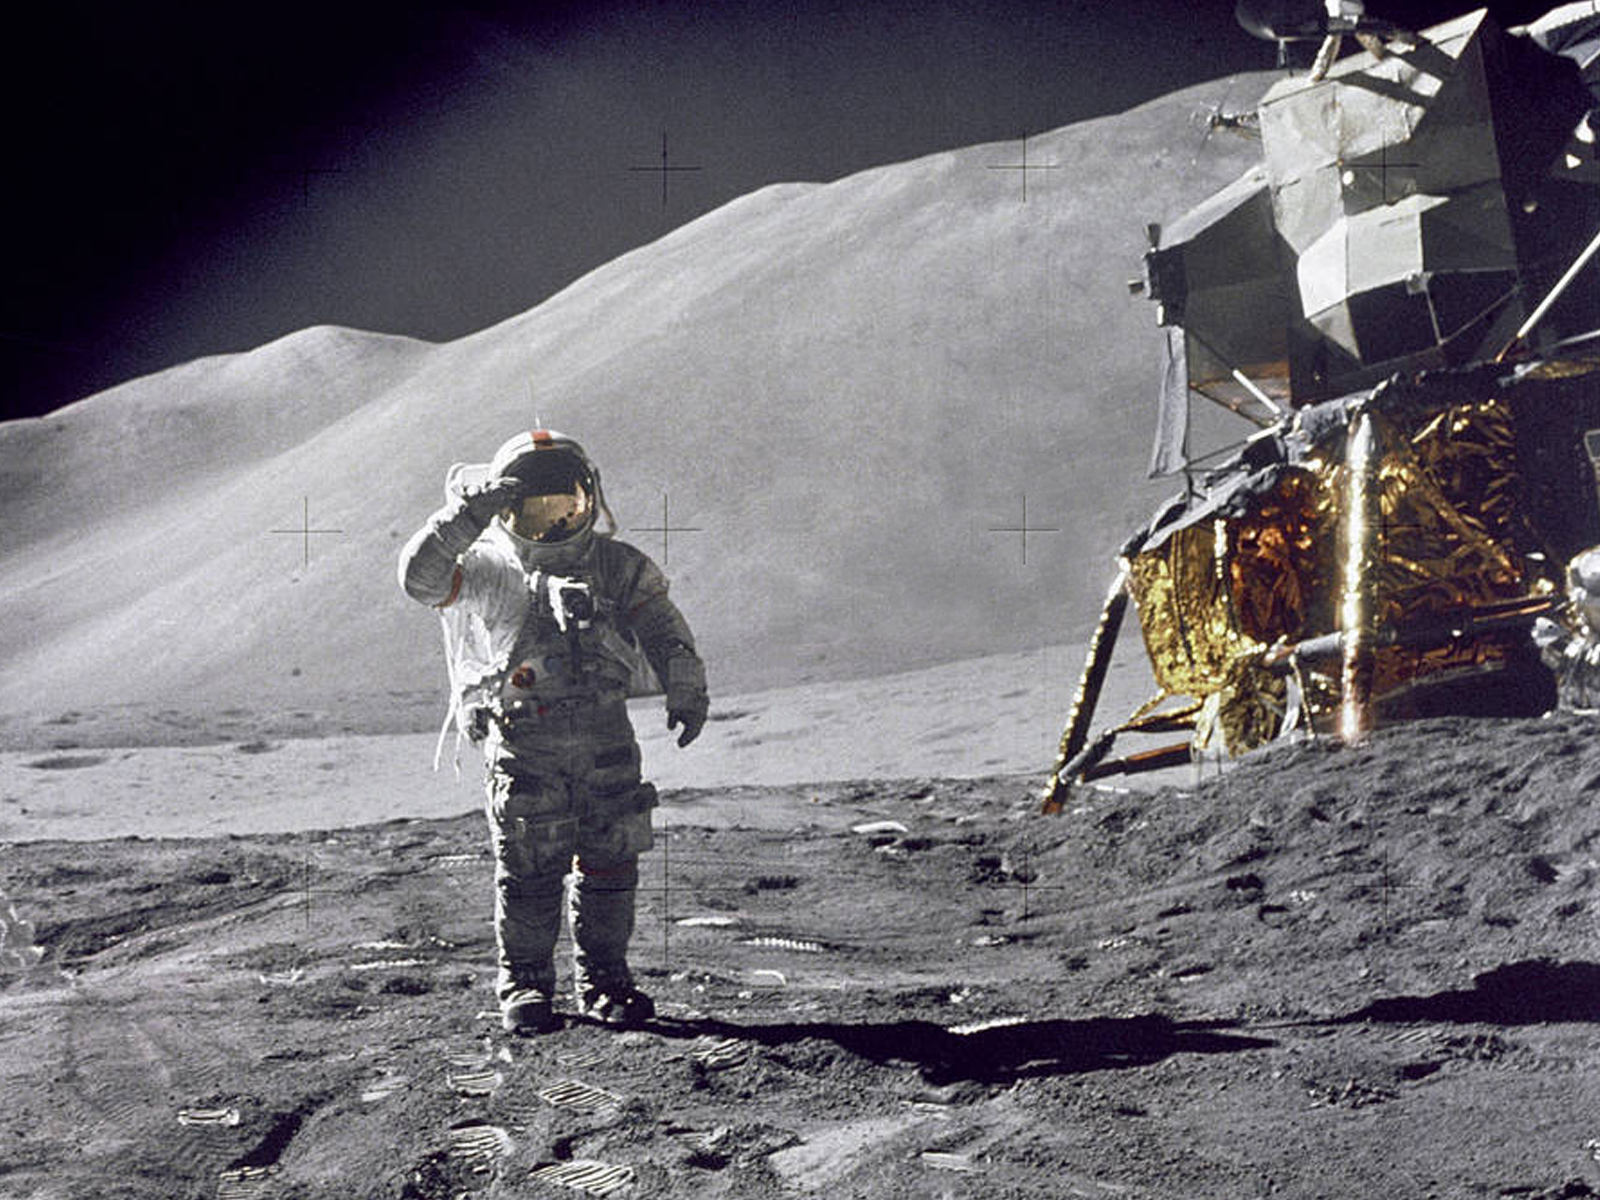
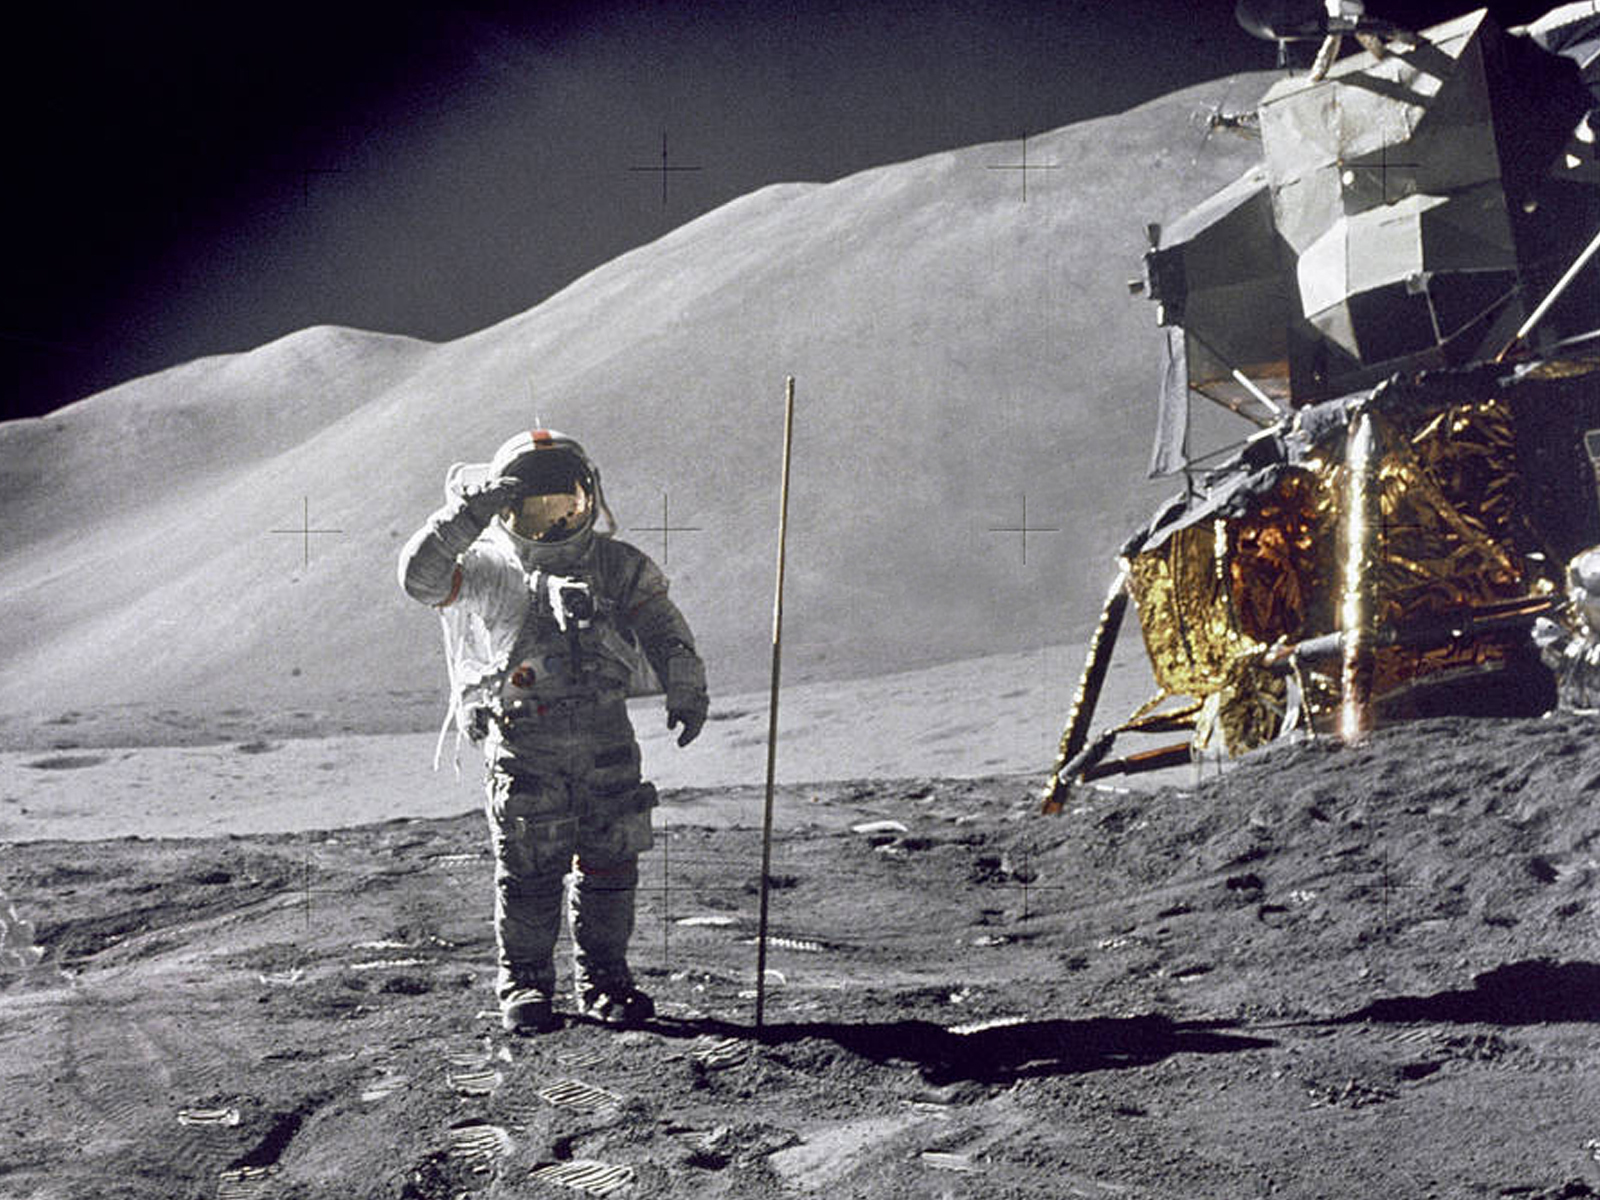
change flag pole

diff --git a/assets/js/moon.js b/assets/js/moon.js
@@ -947,7 +947,7 @@
     //
 
     // Renderer settings
-    var poleOffset  = 265,
+    var poleOffset  = 260,
 		poleHeight  = 780,
 		topWidth = 100;
 
@@ -1010,32 +1010,32 @@
         flag = new Flag();
         flag.setTopEdge( 'top' );
         flag.setHoisting( 'dexter' );
-        flag.setPosition( 0, poleHeight / 2, 0 );
+        flag.setPosition( 3, 0, 0 );
         flag.setTexture( blankTexture );
         publicFlag = flag.createPublic();
 
 		poleMat = new THREE.MeshPhongMaterial( {
-            color     : 0x8A7A6A,
+            color     : 0x9A7A5A,
             specular  : 0xffffff,
             metal     : true,
-            shininess : 18
+            shininess : 16
         } );
 
 		// Init flag top
 		topWidth = flag.cloth.width + 5;
         topGeo = new THREE.CylinderGeometry( 3, 3, topWidth );
         topMesh = new THREE.Mesh( topGeo, poleMat );
-        topMesh.position.y    = poleHeight / 2;
+        topMesh.position.y    = 0;
 		topMesh.position.x    = topWidth / 2;
 		topMesh.rotation.z = Math.PI / 2;
         topMesh.receiveShadow = true;
         topMesh.castShadow    = true;
 
 		// Init flag pole
-        poleGeo = new THREE.CylinderGeometry( 4.5, 4.5, poleHeight );
+        poleGeo = new THREE.CylinderGeometry( 4.5, 4.5, 10 );
         poleMesh = new THREE.Mesh( poleGeo, poleMat );
-        poleMesh.position.y    = poleOffset - poleHeight / 2;
-		poleMesh.position.x    = -30;
+        poleMesh.position.y    = poleOffset;
+		poleMesh.position.x    = -12;
 		poleMesh.rotation.z    = -0.05;
         poleMesh.receiveShadow = true;
 		poleMesh.castShadow    = true;
